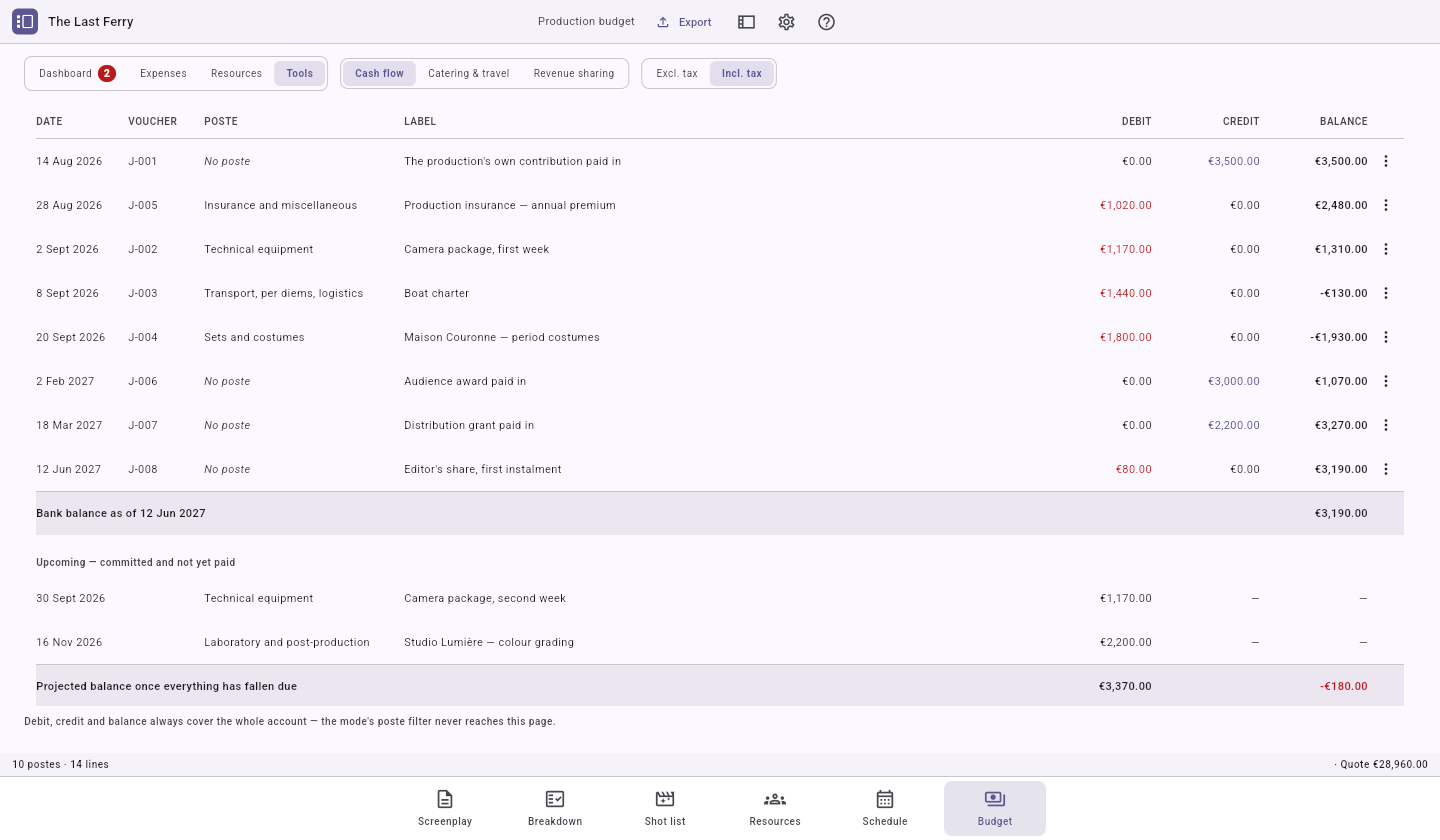
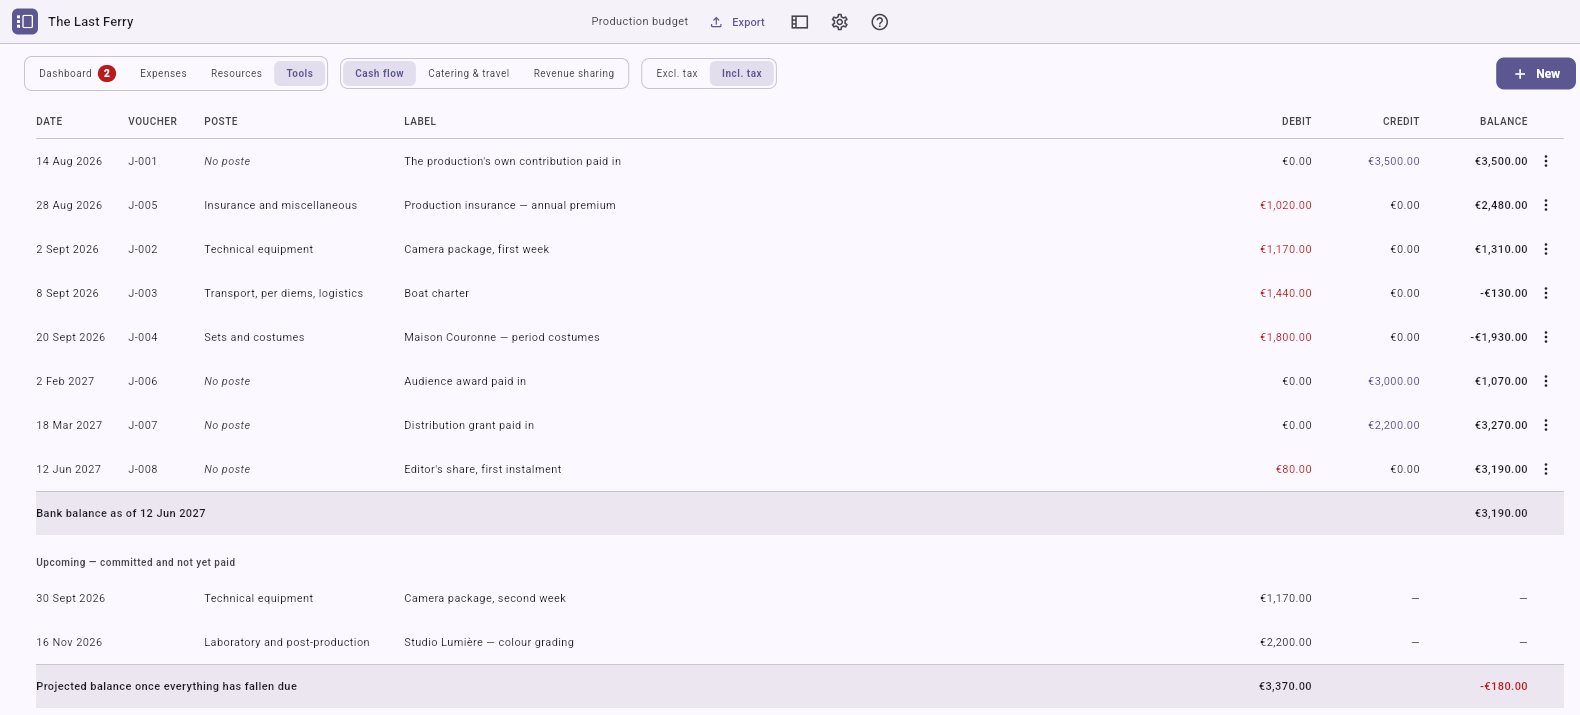
docs: refresh the README budget shots and prose
Retakes the five budget screenshots against the current UI — the
header now carries one `+ New` button on every page instead of the
per-view capture buttons the old shots showed, and the expenses shot
opens a poste down to its commitment and the instalment that settled
it. The prose drops the retired "two-step form" wording for the
one-button wizard.

Claude-Session: https://claude.ai/code/session_01Wh1tCNHKJFhAB888xmYC6Y

diff --git a/README.md b/README.md
@@ -112,12 +112,13 @@ the chip carries the count of them from every other page.
 ![The budget dashboard, four tiles over the needs-against-resources band and two standing alerts](docs/screenshots/budget-dashboard.png)
 
 What the film costs, poste by poste: one row per poste of the CNC nomenclature, opening on its own
-quote lines, and a line opening in turn on the commitment it became and on the entry that settled
-it. Spending that names no poste is not hidden - it lands in a row of its own, and counts in the
-total. `Enter an expense` opens a two-step form: first what you are doing, in the words a
-production actually uses, then the fields that answer belongs to.
+quote lines, and a line opening in turn on the commitment it became and on the payments that settle
+it - in one instalment or several. Spending that names no poste is not hidden - it lands in a row of
+its own, and counts in the total. `+ New`, the one button every page carries, opens a short wizard:
+first what you are doing, in the words a production actually uses, then - where it is needed - what
+the movement attaches to, and last the amount.
 
-![The expenses view, a poste opened down to its commitment and its settling entry](docs/screenshots/budget-expenses.png)
+![The expenses view, a poste opened down to its commitment and its payments](docs/screenshots/budget-expenses.png)
 
 What pays for it, read the same way: subsidies, contributions and takings, each with the paperwork
 it is held on - which never means the money has arrived - and, at the foot, whether all of it
